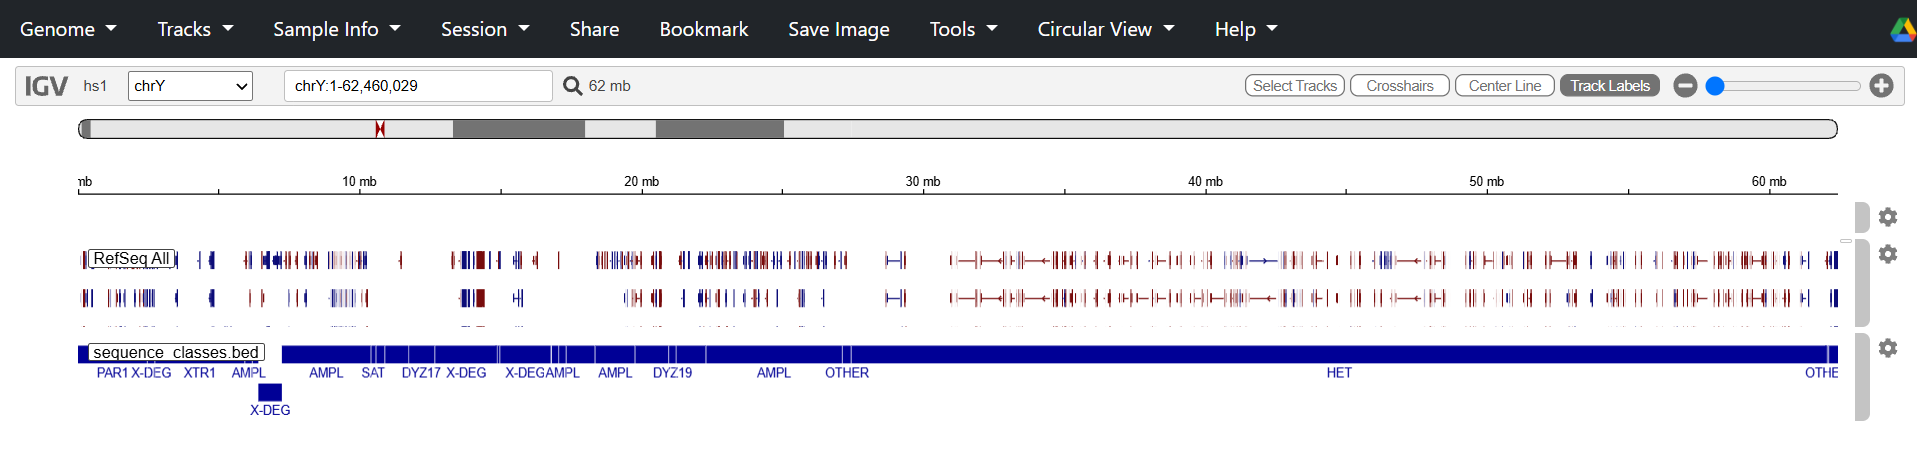
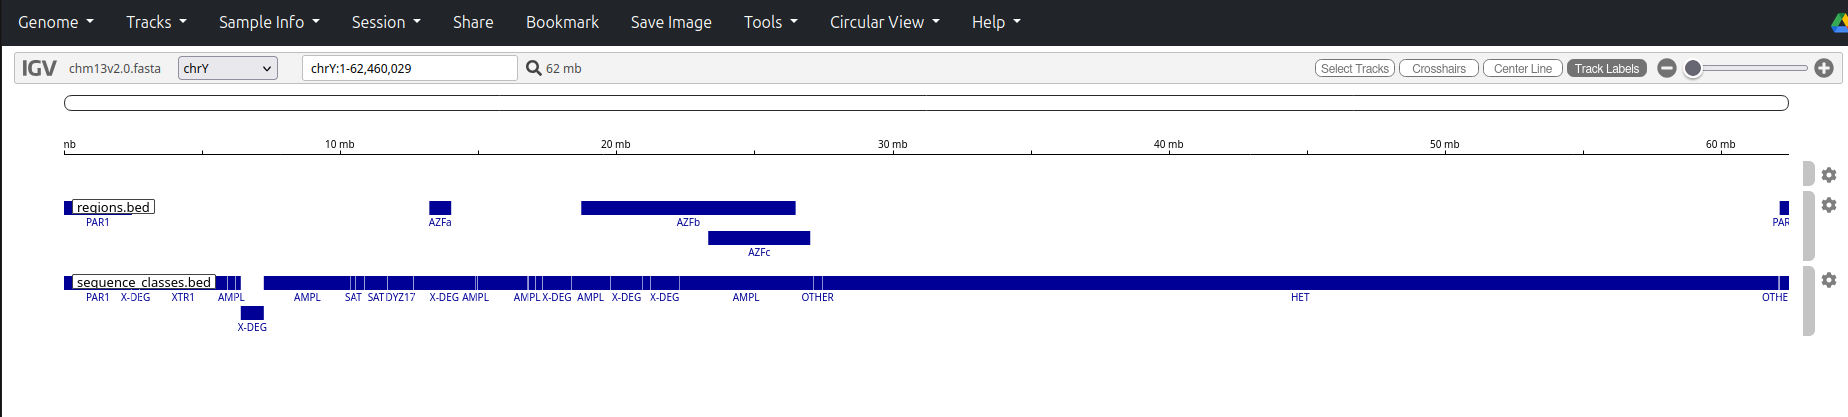
docs: create script for creating regions bed file with chrY regions coordinates, modify phase2_plan

Changed region(s): [[0.0308, 0.3429, 1.0, 0.9041], [0.0, 0.0312, 1.0, 0.3118], [0.0308, 0.4676, 0.2776, 0.5923]]

diff --git a/phases/phase2/phase2_plan.md b/phases/phase2/phase2_plan.md
@@ -36,8 +36,9 @@ Big data files live on the external disk, not in OneDrive.
  1. Sequence classes: convert Rhie et al. 2023 Suppl. Table 21 into
     sequence_classes.bed (PAR1, PAR2, XTR, XDR, AMPL, P1-P8, HET) with a
     script in scripts/. Check it in IGV / UCSC hs1. [x]
- 2. regions.bed: PAR1, PAR2, AZFa, AZFb, AZFc on T2T coordinates (lift over
-    GRCh38 coordinates with the UCSC hg38->hs1 chain, write down the source). [ ]
+ 2. regions.bed: PAR1, PAR2, AZFa, AZFb, AZFc on T2T coordinates (PAR1/2 from
+    sequence_classes.bed, AZFa/b/c from official T2T Consortium / MARBL Rhie et al. 2023
+    annotations chm13v2.0Y_AZF_DYZ_v1.bed) via scripts/make_regions_bed.sh. Check it in IGV. [x]
  3. Genes: CHM13v2.0 gene annotation (GFF3) filtered to chrY and chrX -> genes.gtf.gz. [ ]
  4. Gaps: N-runs from the FASTA -> gaps.bed. [ ]
  5. Mappability: compute with GenMap (k = read length) for chrY, chrX and the
@@ -152,10 +153,9 @@ Build in pipeline order, write pytest tests for each step on the simulated data.
 ## Ask Mariateresa
   1. (Week ) Which T2T-aligned 1000 Genomes data to use, or does the lab have
      data? Are the PARs masked in that reference? [ ]
-  2. (Week ) Correct source of AZFa/b/c coordinates on T2T. [ ]
-  3. (Week ) Mappability: compute it ourselves, which k? [ ]
-  4. (Week ) Are the simulated scenarios and default thresholds realistic? [ ]
-  5. (Week ) Prototype demo and feedback on the Methods draft. [ ]
+  2. (Week ) Mappability: compute it ourselves, which k? [ ]
+  3. (Week ) Are the simulated scenarios and default thresholds realistic? [ ]
+  4. (Week ) Prototype demo and feedback on the Methods draft. [ ]
 
 ## PHASE 2 DELIVERABLES
  [D4] Example datasets: real 1KGP subset on T2T-CHM13v2.0 and simulated
